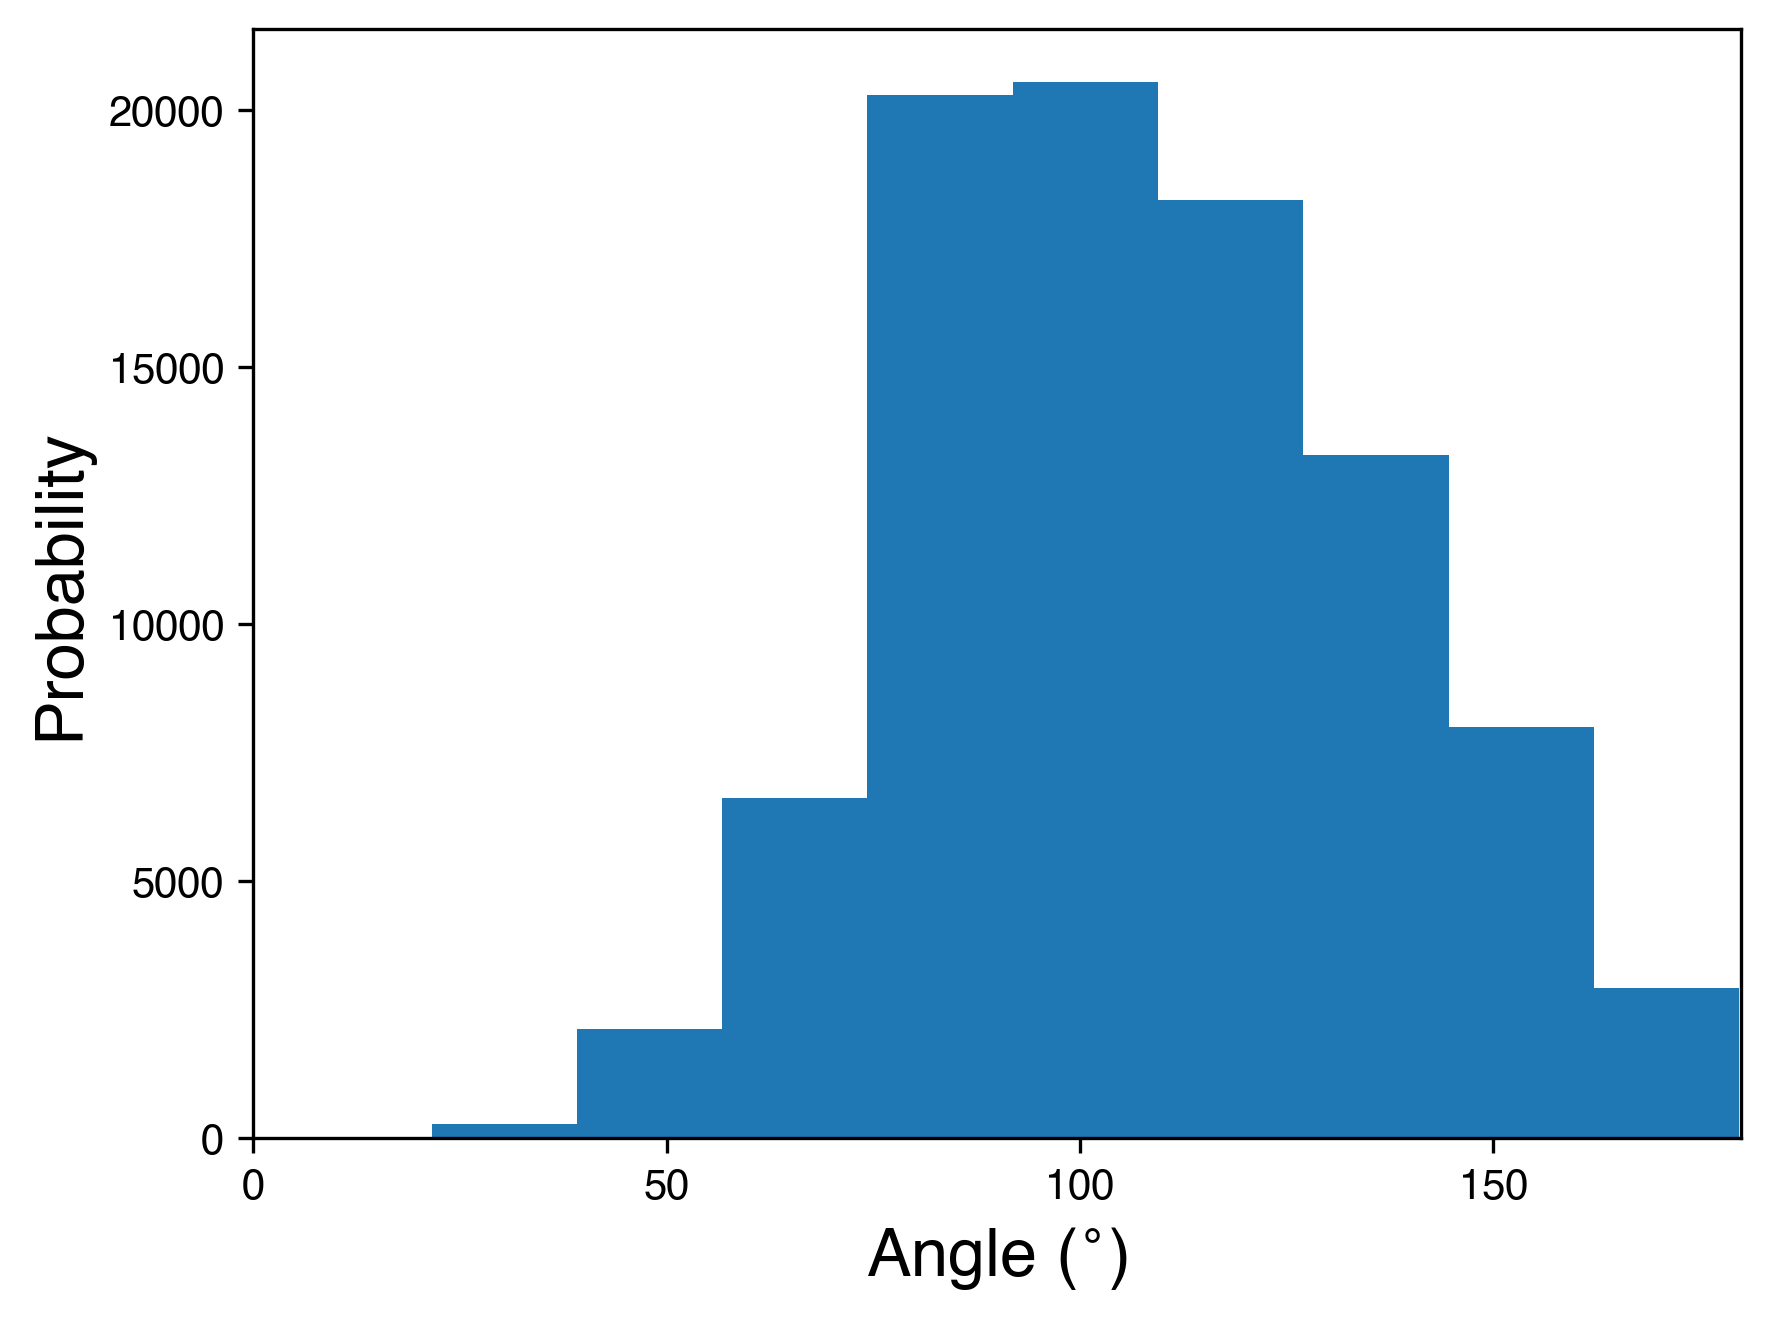
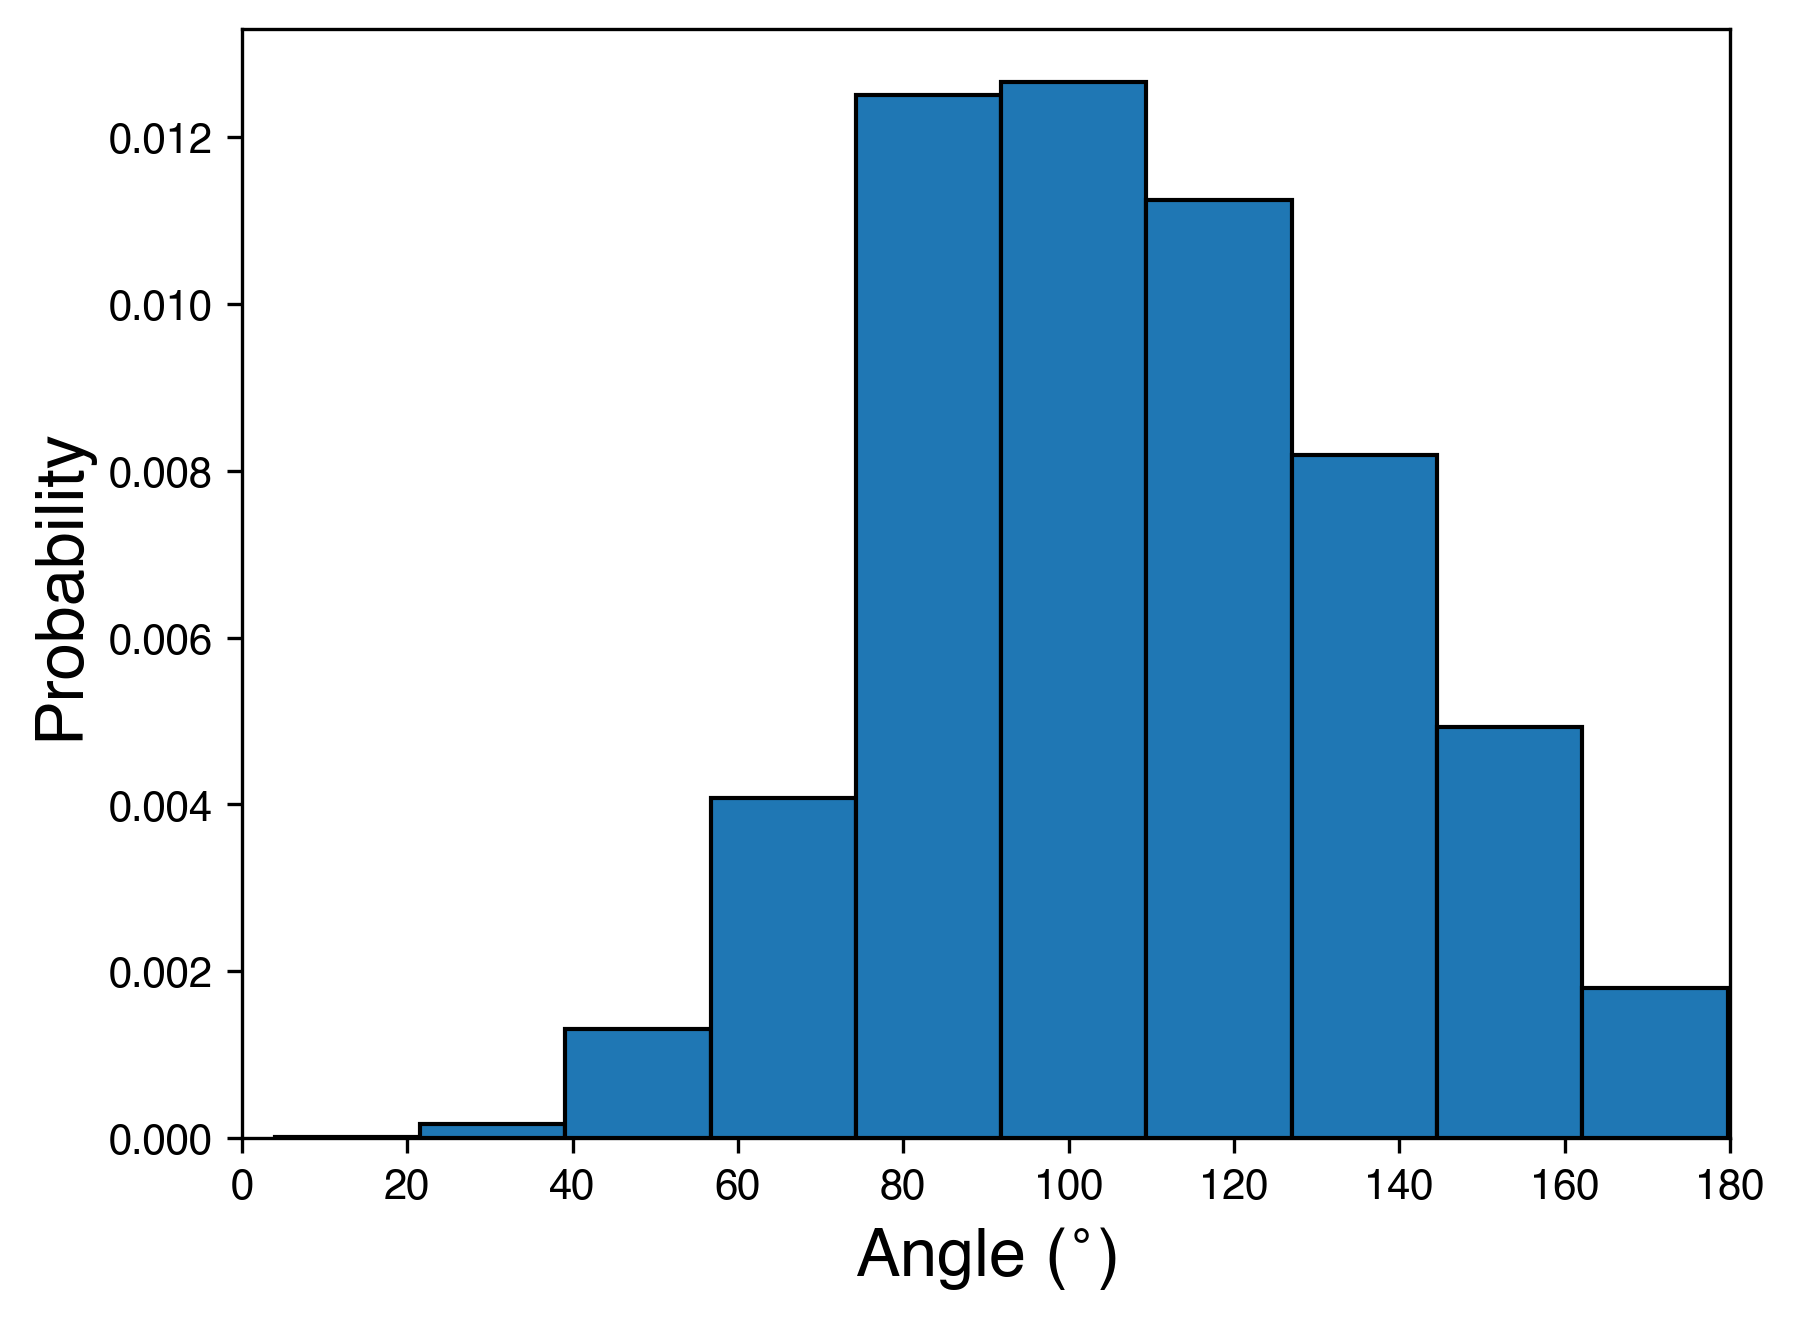
class 5 ends

diff --git a/l5/hist.py b/l5/hist.py
@@ -13,7 +13,7 @@ l=len(mat0[:,0])
  
 # Creating histogram
 fig, ax = plt.subplots()
-ax.hist(mat0[:,1],bins=n_bins,density=False)
+ax.hist(mat0[:,1],bins=n_bins,density=True,edgecolor = 'black')
 ax.set_xlabel("Angle ($^{\circ}$)",fontsize=16,fontweight='bold')
 ax.set_ylabel("Probability",fontsize=16,fontweight='bold')
 

diff --git a/l5/measure.py b/l5/measure.py
@@ -3,11 +3,13 @@ import statistics as stat
 data=[1,2,2,4,5]
 s=np.shape(data)
 a=np.mean(data)
+d=np.std(data)
 b=np.median(data)
 c=stat.mode(data)
 print ("shape",s)
 print ("mean",a)
 print ("median",b)
 print ("mode",c)
+print ("standard deviation",d)
 
 
